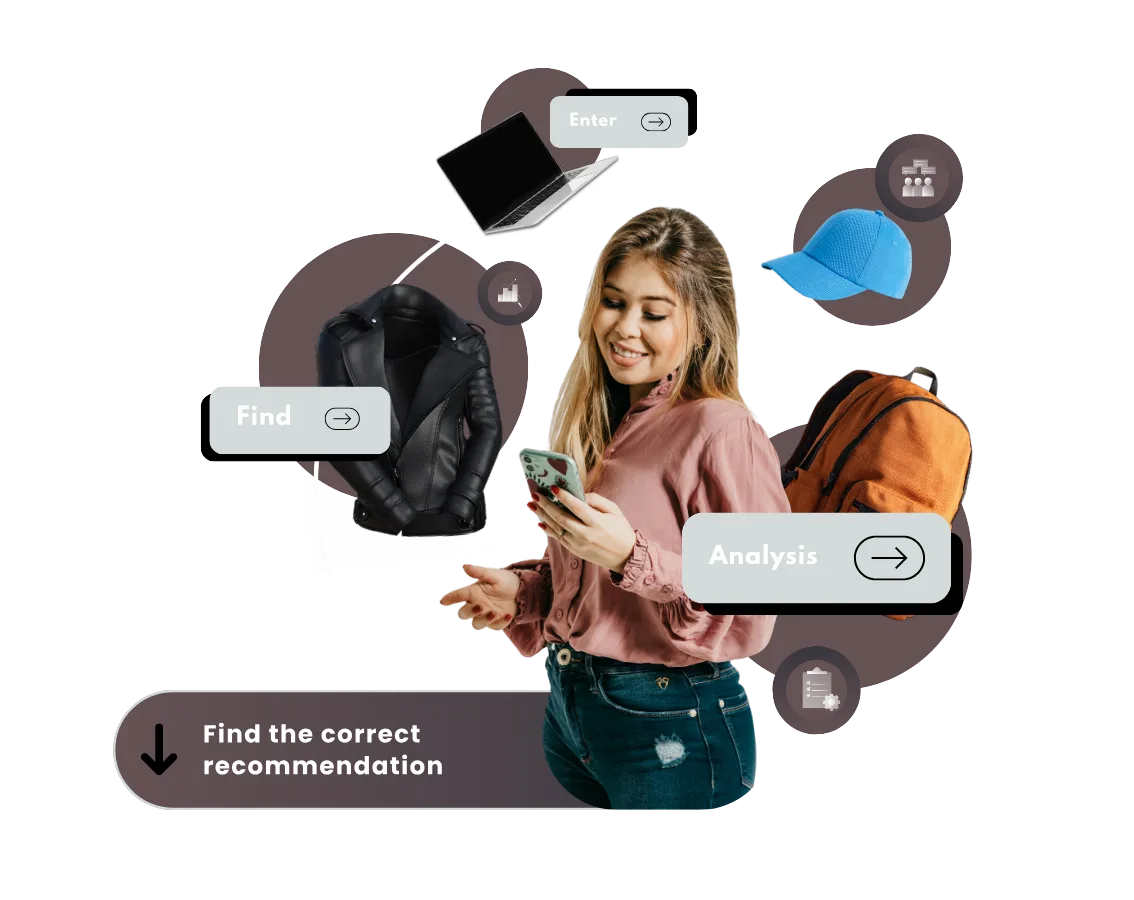
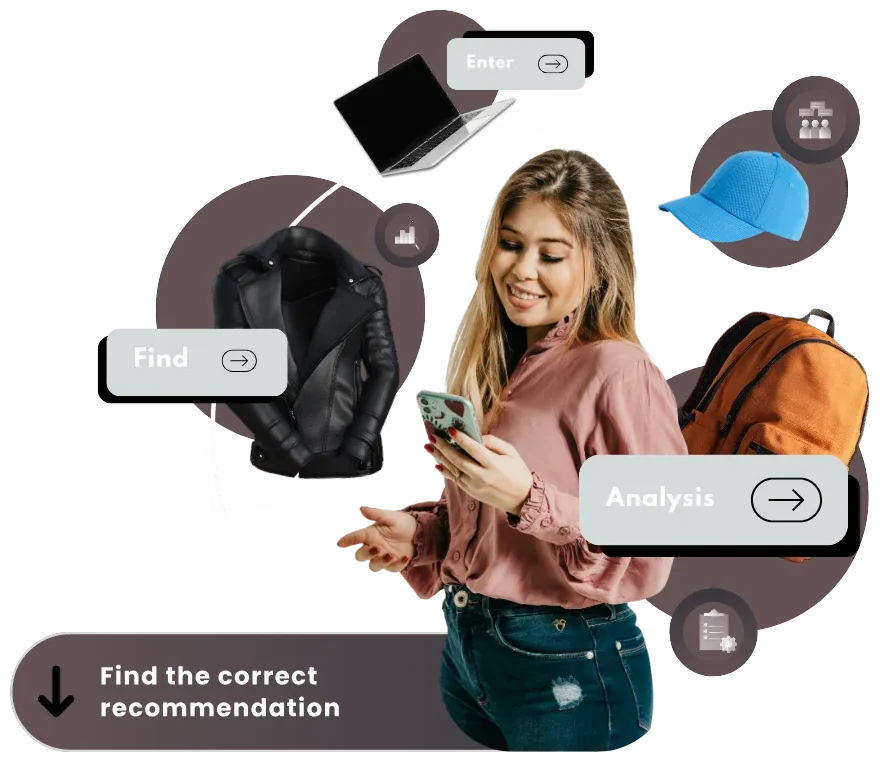
Enlarge home hero image
Crop the transparent margins from hero.webp (1134x900 -> 880x762) so the
artwork fills its column (~29% larger), take the aspect ratio from
content.ts, and raise the small-screen cap from 480px to 540px.

diff --git a/src/components/landing/Hero.tsx b/src/components/landing/Hero.tsx
@@ -97,7 +97,7 @@ export function Hero() {
 
           <motion.div
             style={{ y: sceneY }}
-            className="relative mx-auto w-full max-w-[480px] md:col-span-6 md:max-w-none lg:max-w-[600px]"
+            className="relative mx-auto w-full max-w-[540px] md:col-span-6 md:max-w-none lg:max-w-[640px]"
             initial={{ opacity: 0, scale: 0.94 }}
             animate={done ? { opacity: 1, scale: 1 } : {}}
             transition={{ duration: 1.1, ease: ease.out, delay: 0.15 }}
@@ -112,7 +112,8 @@ export function Hero() {
                 fetchPriority="high"
                 decoding="async"
                 draggable={false}
-                className="relative aspect-[1134/900] w-full select-none object-contain"
+                style={{ aspectRatio: `${hero.image.width} / ${hero.image.height}` }}
+                className="relative w-full select-none object-contain"
               />
             </DepthLayer>
             <ul className="relative mt-3 flex flex-wrap justify-center gap-2" aria-label={hero.chipsLabel}>

diff --git a/src/content.ts b/src/content.ts
@@ -156,7 +156,7 @@ export const hero = {
     { value: 1, suffix: '', label: 'approval trail' },
   ],
   statsNote: 'Product facts',
-  image: { src: '/images/hero.webp', width: 1134, height: 900 },
+  image: { src: '/images/hero.webp', width: 880, height: 762 },
   chipsLabel: 'Key qualities',
   sceneAlt: 'A smiling shopper using her phone, surrounded by products and Find, Analysis and Enter steps leading to the correct pricing recommendation.',
 }
